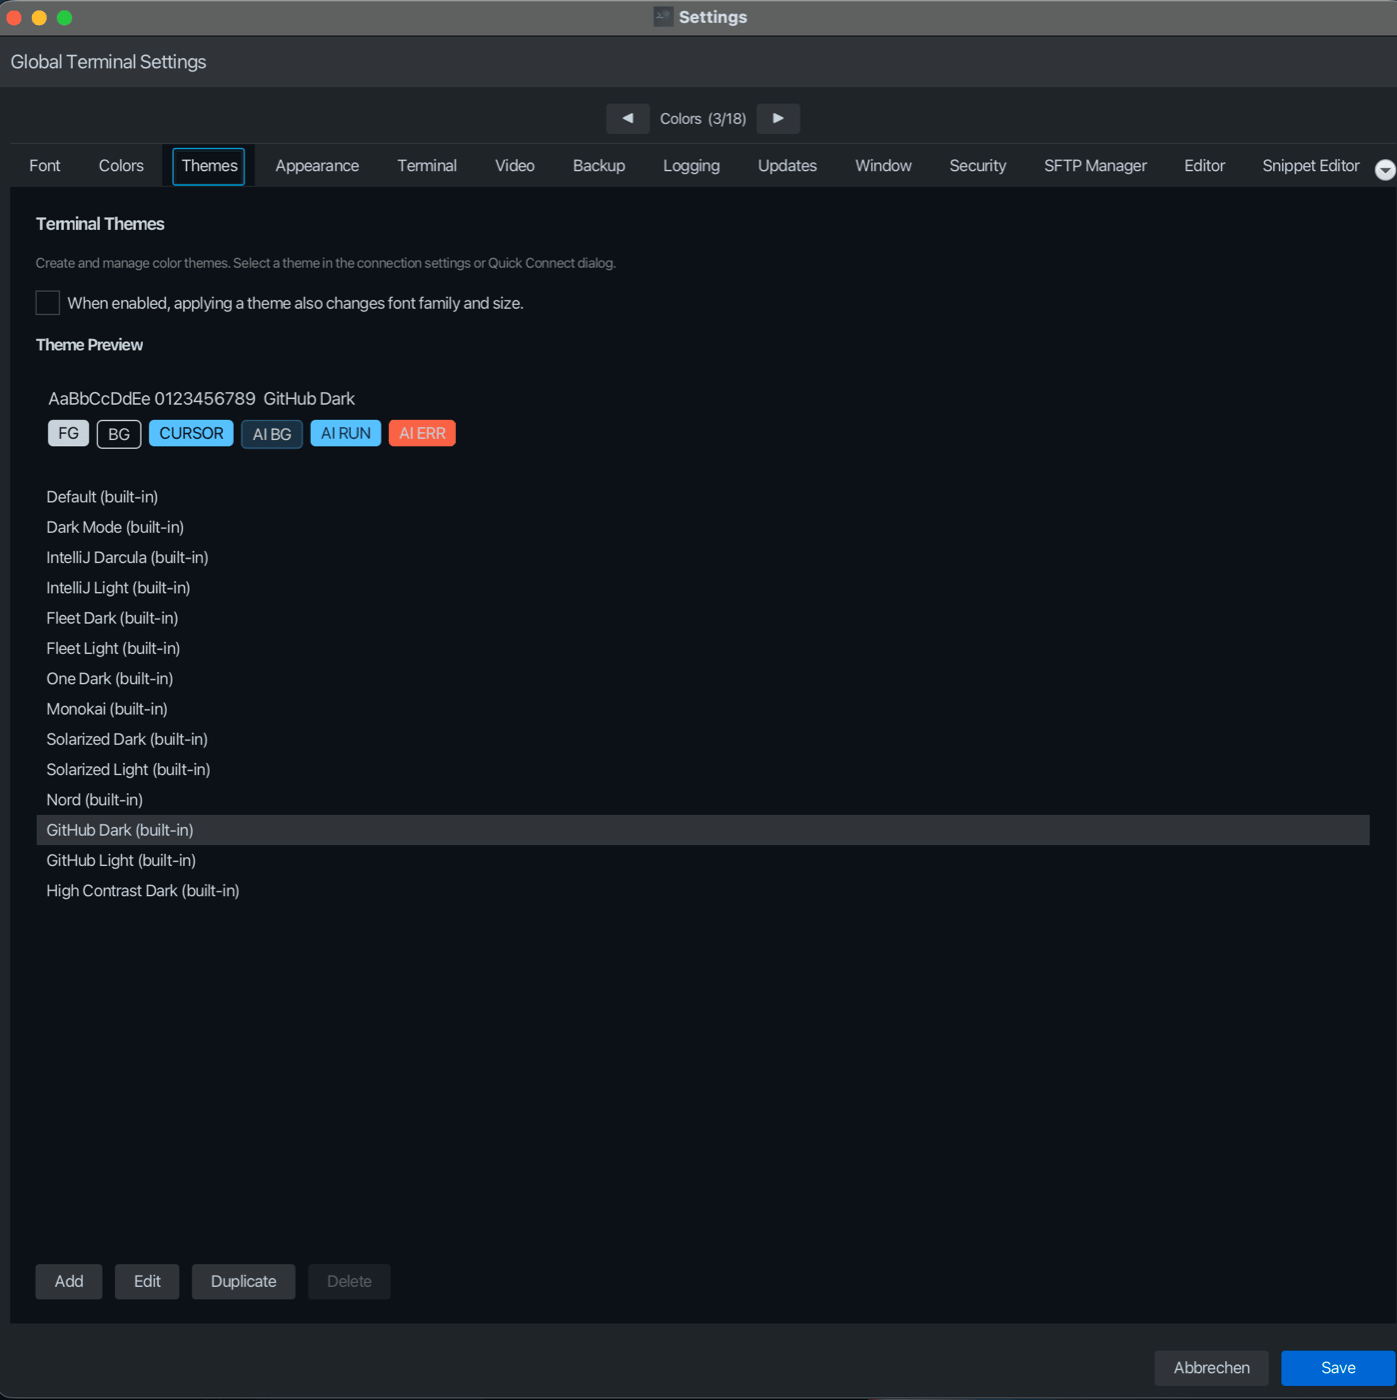
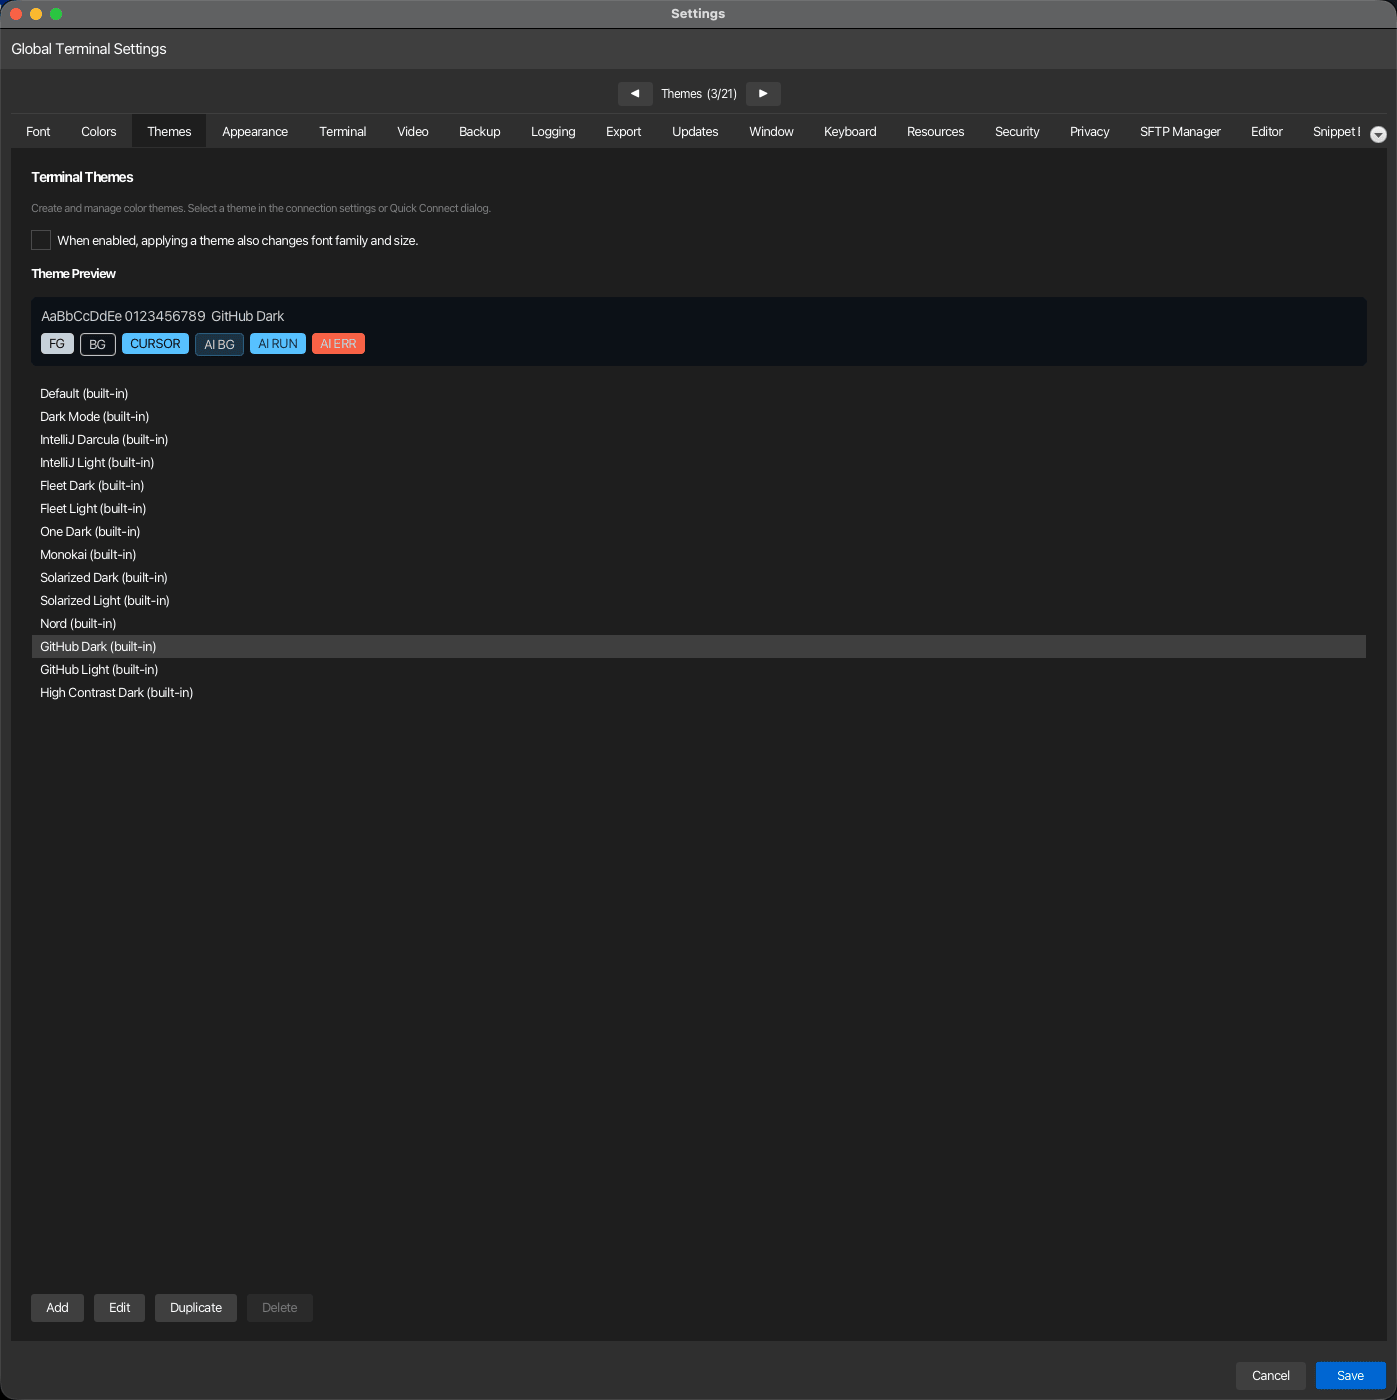
docs(settings): recapture Colors and Themes with real color profiles (#509)
colors.png and themes.png were left out of #508: settingsTabScreenshotStage
built SettingsDialog without an application, and both tabs read their
color profiles from app.getThemeManager(), so Colors showed an empty
profile combo and Themes only "Theme management is not available." The
old images, captured from a running app in July, still named the wrong
section ("Font (2/18)", "Colors (3/18)"), used a different design and
showed the German "Abbrechen" next to "Save".

The stage now hands the dialog an application object that only carries a
ThemeManager loaded with the built-in profiles in the isolated home. It is
not init()ed, and every other application getter the dialog reaches while
it is built is null-guarded, so the other tabs render as before: Appearance,
Security and AI recaptured with the new stage are pixel-identical to #508.
The new kortty.screenshotThemeId property (forwarded by the Gradle task)
selects a profile on both tabs.

Recaptured both with -Pkortty.screenshotThemeId=github-dark, the profile
the old images showed, in the Normal design like the other settings shots,
and ran them through scripts/optimize-png.sh:

  colors.png  "Colors (2/21)": GitHub Dark with its text, background and
              cursor colors; Cursor blinks is on (the documented default)
  themes.png  "Themes (3/21)": the 14 built-in profiles, GitHub Dark
              selected with its preview

Restaged the bundled guide (stageGuideIntoResources), which only replaced
[…]

Changed region(s): [[0.0, 0.0614, 1.0, 1.0], [0.0, 0.0, 1.0, 0.0614], [0.0, 0.8907, 0.2462, 0.9521]]

diff --git a/src/test/java/de/kortty/ui/SettingsTabScreenshotStage.java b/src/test/java/de/kortty/ui/SettingsTabScreenshotStage.java
@@ -1,10 +1,12 @@
 package de.kortty.ui;
 
 import de.kortty.JavaFxPlatformSupport;
+import de.kortty.KorTTYApplication;
 import de.kortty.core.ConfigurationManager;
 import de.kortty.core.CredentialManager;
 import de.kortty.core.GPGKeyManager;
 import de.kortty.core.LanguageManager;
+import de.kortty.core.ThemeManager;
 import de.kortty.model.GlobalSettings;
 import javafx.application.Platform;
 import javafx.scene.control.DialogPane;
@@ -32,6 +34,11 @@ import java.util.concurrent.atomic.AtomicReference;
  * <p>The tab to show is the i18n key given by the {@code kortty.screenshotTabKey} system property
  * (e.g. {@code settings.tab.security}); it defaults to {@code settings.tab.window}. The dialog runs
  * against an isolated temp home in English so no real credentials or German labels appear.
+ *
+ * <p>The Colors and Themes tabs list the color profiles of the application's {@link ThemeManager},
+ * so the dialog gets an application object that carries one, filled with the built-in profiles.
+ * {@code kortty.screenshotThemeId} (e.g. {@code github-dark}) selects a profile on both tabs; without
+ * it the terminal defaults are shown with no profile selected, as on a new installation.</p>
  */
 public final class SettingsTabScreenshotStage {
 
@@ -106,9 +113,13 @@ public final class SettingsTabScreenshotStage {
         GlobalSettings settings = new GlobalSettings();
         settings.setLanguage("en");
         LanguageManager.getInstance().initialize(settings);
+        String themeId = System.getProperty("kortty.screenshotThemeId");
+        if (themeId != null && !themeId.isBlank()) {
+            settings.getDefaultTerminalSettings().setThemeId(themeId.trim());
+        }
 
         SettingsDialog dialog = new SettingsDialog(
-            null, null,
+            null, applicationWithThemes(isolatedHome.resolve(".kortty")),
             new ConfigurationManager(isolatedHome), settings,
             new CredentialManager(isolatedHome), new GPGKeyManager(isolatedHome));
         DialogThemeHelper.applyTheme(dialog);
@@ -170,6 +181,23 @@ public final class SettingsTabScreenshotStage {
             done.countDown();
         });
         poll.play();
+    }
+
+    /**
+     * An application object that only carries a {@link ThemeManager} with the built-in profiles,
+     * which is all the Colors and Themes tabs read from it. It is not {@code init()}ed — that would
+     * start the real services — and every other application getter the dialog reaches while it is
+     * built is null-guarded, so the remaining tabs render exactly as without an application.
+     */
+    private static KorTTYApplication applicationWithThemes(Path configDir) throws Exception {
+        Files.createDirectories(configDir);
+        ThemeManager themeManager = new ThemeManager(configDir);
+        themeManager.load();
+        KorTTYApplication app = new KorTTYApplication();
+        Field field = KorTTYApplication.class.getDeclaredField("themeManager");
+        field.setAccessible(true);
+        field.set(app, themeManager);
+        return app;
     }
 
     private static void selectTab(SettingsDialog dialog, String title) throws Exception {
